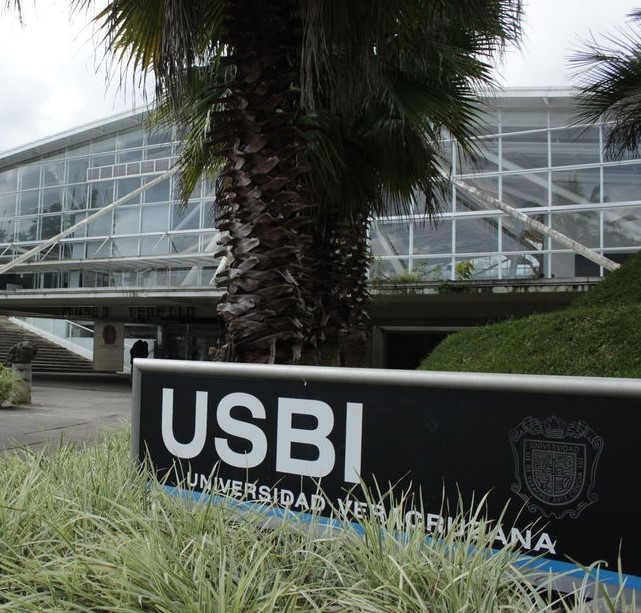
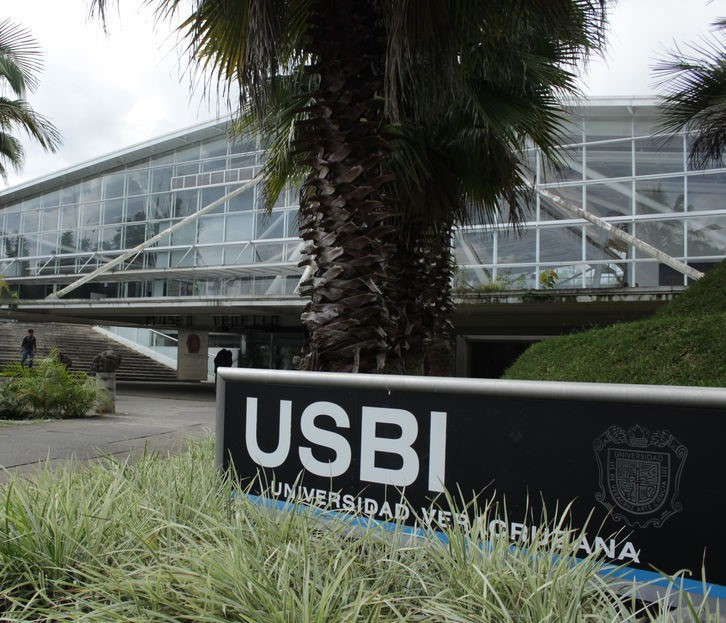
Correccion de la imagen de registrar y acceder

diff --git a/Desarrollo/Proyecto Eventos/Front/src/app/components/signin/signin.component.html b/Desarrollo/Proyecto Eventos/Front/src/app/components/signin/signin.component.html
@@ -1,6 +1,6 @@
 <div class="row">
   <div class="d-none d-sm-none d-md-none d-lg-none d-xl-block">
-    <img src="../../../assets/images/USBI.jpg" class="img-ts float-xs-left mx-auto d-block container-fluid" width="43%">
+    <img src="../../../assets/images/USBI.jpg" class="img-ts float-xs-left mx-auto d-block container-fluid" height="675">
   </div>
   <div class="mx-lg-auto cardAdjustment">
     <div class="container p-4">

diff --git a/Desarrollo/Proyecto Eventos/Front/src/app/components/signup/signup.component.html b/Desarrollo/Proyecto Eventos/Front/src/app/components/signup/signup.component.html
@@ -1,6 +1,6 @@
 <div class="row">
   <div class="d-none d-sm-none d-md-none d-lg-none d-xl-block">
-    <img src="../../../assets/images/USBI.jpg" class="img-ts float-xs-left mx-auto d-block container-fluid" width="43%">
+    <img src="../../../assets/images/USBI.jpg" class="img-ts float-xs-left mx-auto d-block container-fluid" height="675">
   </div>
   <div class="mx-lg-auto cardAdjustment">
     <div class="container p-4">

diff --git a/Desarrollo/Proyecto Eventos/Front/src/app/components/signin/signin.component.css b/Desarrollo/Proyecto Eventos/Front/src/app/components/signin/signin.component.css
@@ -69,3 +69,11 @@ footer {
   bottom: 0;
   position: fixed;
 }
+
+div.row{
+  margin-right: 0px;
+}
+
+div.container-fluid{
+  padding-right: 0px;
+}

diff --git a/Desarrollo/Proyecto Eventos/Front/src/app/components/signup/signup.component.css b/Desarrollo/Proyecto Eventos/Front/src/app/components/signup/signup.component.css
@@ -73,3 +73,11 @@ footer {
 img {
   display: none;
 }
+
+div.row{
+  margin-right: 0px;
+}
+
+div.container-fluid{
+  padding-right: 0px;
+}
